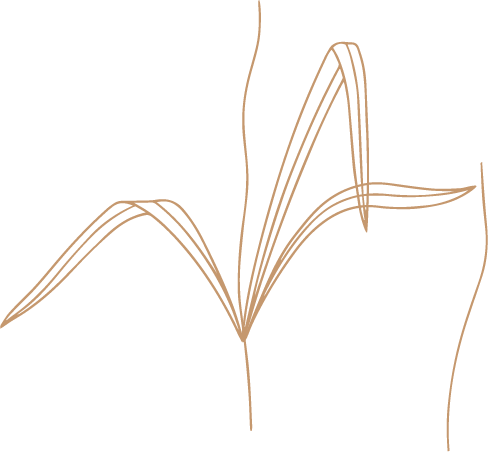
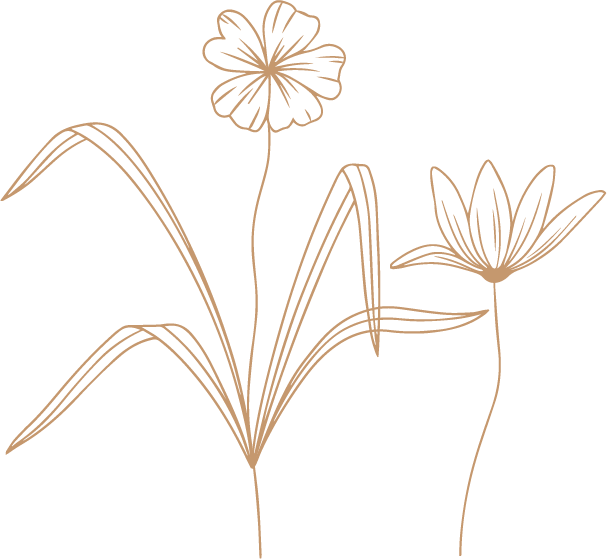
quote

diff --git a/index.html b/index.html
@@ -106,21 +106,7 @@
                 <img class="abs watercolor2 wtrclr-on-sctn-3" src="./src/style/elements/watercolor2.png" alt="">
                 <img class="abs watercolor2 wtrclr-on-sctn-3_1" src="./src/style/elements/Recurso 3brush.png" alt="">
                 <img class="abs watercolor2 wtrclr-on-sctn-3_2" src="./src/style/elements/Recurso 4brush.png" alt="">
-                
-                <!-- <img class="abs bottom-sctn-3" src="./src/style/elements/16watercolor.png" alt=""> -->
-                <!-- <div class="flwr_sctn-3-1"> -->
-                    <!-- <svg class="f-s3 f-s3_3" xmlns="http://www.w3.org/2000/svg" viewBox="0 0 29.74 20.36"><defs><style>.a{fill:#c5986e;}</style></defs><title></title><path class="a" d="M0,20.36a4,4,0,0,1,.12-.46c.89-2.19,1.75-4.39,2.7-6.56A29.91,29.91,0,0,1,6.45,6.83a27.92,27.92,0,0,1,3.53-4A11.49,11.49,0,0,1,15.66.12a10.35,10.35,0,0,1,3.24,0c1.76.23,3.52.51,5.28.66a25.72,25.72,0,0,0,3.4,0A12.84,12.84,0,0,0,29.06.49c.21,0,.42,0,.63-.08l0,.12a6.14,6.14,0,0,1-.45.43,10.76,10.76,0,0,1-3.63,1.77,21.48,21.48,0,0,1-2.49.49,18.37,18.37,0,0,1-2.45.19,26.75,26.75,0,0,1-3.35-.17A9.23,9.23,0,0,0,10.64,5,17.52,17.52,0,0,0,6.64,9,53.85,53.85,0,0,0,1.32,17.9c-.25.52-.45,1.08-.67,1.61A1.51,1.51,0,0,1,0,20.36ZM28.81.94a22.41,22.41,0,0,1-4.42.79,29.61,29.61,0,0,1-5.57,0,19,19,0,0,0-3-.05,9.9,9.9,0,0,0-3.57,1,11.94,11.94,0,0,0-4,3.22A38.33,38.33,0,0,0,2.8,14.22a1.73,1.73,0,0,0-.11.32A1.87,1.87,0,0,0,3,14.08,55.85,55.85,0,0,1,6.65,8.59a16.41,16.41,0,0,1,4.52-4.27,9.11,9.11,0,0,1,6-1.34,26,26,0,0,0,2.92.18c1.05,0,2.11-.11,3.16-.21a12.62,12.62,0,0,0,3.81-1A6.65,6.65,0,0,0,28.81.94Zm-1.95.26V1.15c-1.09,0-2.18,0-3.25-.15C22.07.85,20.54.62,19,.4a10.44,10.44,0,0,0-3.57,0A11.37,11.37,0,0,0,10.21,3a25.15,25.15,0,0,0-3,3.29A21,21,0,0,0,5,9.5c-.07.13-.13.26-.19.4l.08,0,.33-.49A26.51,26.51,0,0,1,8.71,5a13,13,0,0,1,2.93-2.29,11.23,11.23,0,0,1,6.58-1.26A33.57,33.57,0,0,0,23,1.62c.61,0,1.22-.09,1.83-.16Z"/></svg> -->
-                    <!-- <svg class="f-s3 f-s3_4" xmlns="http://www.w3.org/2000/svg" viewBox="0 0 31.52 42.78"><defs><style>.a{fill:#c5986e;}</style></defs><title></title><path class="a" d="M10.81,2.16A14.89,14.89,0,0,0,7.06,4.61c-.93.83-1.84,1.68-2.76,2.51a19.25,19.25,0,0,1-4,2.67.44.44,0,0,1-.34,0c.11-.15.21-.3.32-.44.94-1.22,1.86-2.47,2.84-3.67S5.24,3.23,6.33,2.05a6,6,0,0,1,3-1.66A13.77,13.77,0,0,1,11.17,0a4.46,4.46,0,0,1,3.89,1.24,25.88,25.88,0,0,1,3.62,4.66A96.67,96.67,0,0,1,29.11,29,67.87,67.87,0,0,1,30.78,36a45.71,45.71,0,0,1,.73,5.71,3.76,3.76,0,0,1-.08,1.1,1.09,1.09,0,0,1-.09-.23,45.31,45.31,0,0,0-1.56-8.33,74,74,0,0,0-6.69-16.81A63.22,63.22,0,0,0,15.92,6.74a24.79,24.79,0,0,0-4.61-4.25C11.16,2.38,11,2.28,10.81,2.16ZM8.93.74V.85l.2.11a13.64,13.64,0,0,1,2.8,1.67A27.32,27.32,0,0,1,17.29,8a73.63,73.63,0,0,1,12,23.41c.29.94.55,1.88.83,2.83a.63.63,0,0,0,0-.33c-.3-1.21-.58-2.42-.93-3.61a81.34,81.34,0,0,0-4.82-12.54,65.74,65.74,0,0,0-6.55-11,28.7,28.7,0,0,0-4.15-4.59A10.45,10.45,0,0,0,11.17.48a1,1,0,0,0-.49-.11C10.09.48,9.51.61,8.93.74Zm14.67,15,.07,0-.17-.41a84.19,84.19,0,0,0-4.94-9,24.36,24.36,0,0,0-3.72-4.81A4,4,0,0,0,12.28.25a7.41,7.41,0,0,0-.89,0c.56.36,1,.63,1.45.94a22.33,22.33,0,0,1,4.05,4,57.5,57.5,0,0,1,5.94,9.09ZM.91,9.14a1.7,1.7,0,0,0,.33-.2c.63-.54,1.29-1.06,1.87-1.65S4.39,5.86,5,5.13a17.46,17.46,0,0,1,4.16-3.6.83.83,0,0,0,.19-.15,1.38,1.38,0,0,0-1.65-.09A7.3,7.3,0,0,0,6.2,2.53,76.29,76.29,0,0,0,.92,9S.92,9.08.91,9.14ZM9.73,1.5l-.31.16A11.8,11.8,0,0,0,6.71,3.71C5.46,5,4.26,6.37,3,7.71c0,0,0,0,0,.11s.22-.14.31-.22C4.14,6.9,5,6.22,5.72,5.5a16.71,16.71,0,0,1,4.89-3.45Z"/></svg> -->
-                    <!-- <svg class="f-s3 f-s3_5" xmlns="http://www.w3.org/2000/svg" viewBox="0 0 30.96 18.13"><defs><style>.a{fill:#c5986e;}</style></defs><title></title><path class="a" d="M30.74,18.13c-.19-.39-.4-.76-.58-1.15A46.49,46.49,0,0,0,22.45,5.19a24.16,24.16,0,0,0-3.17-3,1,1,0,0,0-.86-.2,9,9,0,0,0-4,2.07,63.34,63.34,0,0,0-5.12,5,35,35,0,0,1-6.18,5.42c-.57.37-1.16.7-1.73,1.07-.34.22-.67.46-1,.69l-.34.2A1.75,1.75,0,0,1,.08,16a11.85,11.85,0,0,1,1.07-1.55c.68-.78,1.43-1.51,2.17-2.24C4.84,10.7,6.14,9,7.52,7.43a64.47,64.47,0,0,1,6.1-6.27,7.79,7.79,0,0,1,.87-.64,1.78,1.78,0,0,1,1-.31q1.77,0,3.54-.06a7,7,0,0,0,.8-.09,3.53,3.53,0,0,1,3.51,1.25,19.62,19.62,0,0,1,2.39,3.63,85.36,85.36,0,0,1,4,9c.44,1.21.77,2.46,1.14,3.7C31,17.87,31,17.93,30.74,18.13Zm-.49-1.57.08,0a1.16,1.16,0,0,0,0-.18c-.28-.8-.53-1.61-.86-2.4A39,39,0,0,0,23.5,4.17,24.58,24.58,0,0,0,19.85.61a1.06,1.06,0,0,0-.79-.22c-.5,0-1,0-1.51,0L17,.44c.64.38,1.25.71,1.82,1.1A20.26,20.26,0,0,1,22.08,4.4a45.82,45.82,0,0,1,7.74,11.27C30,16,30.11,16.26,30.25,16.56ZM17.21.88,16.88,1l-.3.14a18.51,18.51,0,0,0-4.73,3.41,61.53,61.53,0,0,0-4.38,4.9,25.6,25.6,0,0,1-4.92,4.89c-.16.11-.31.24-.47.36a1,1,0,0,0,.48-.18A33.91,33.91,0,0,0,8.44,9.57c1.6-1.66,3.23-3.28,4.88-4.89a10.56,10.56,0,0,1,5.26-3ZM16.92.8a2.38,2.38,0,0,0-2.71.2l-.44.36A64.84,64.84,0,0,0,7.46,7.89a61.65,61.65,0,0,1-4.51,5c-.6.57-1.16,1.17-1.72,1.77-.19.2-.34.43-.51.64l.08.08c.25-.2.5-.41.76-.6A29.62,29.62,0,0,0,7.4,9.2c1.3-1.59,2.69-3.11,4.09-4.6a16.41,16.41,0,0,1,4.57-3.4ZM27.69,9.63a2.6,2.6,0,0,0-.1-.25C27,8.1,26.41,6.8,25.78,5.54A18.06,18.06,0,0,0,23.1,1.43a4.37,4.37,0,0,0-.92-.8A3.07,3.07,0,0,0,19.87.35C23.22,2.91,25.52,6.21,27.69,9.63Z"/></svg> -->
-                    <!-- <svg class="f-s3 f-s3_6" xmlns="http://www.w3.org/2000/svg" viewBox="0 0 5.19 71.73"><defs><style>.a{fill:#c5986e;}</style></defs><title></title><path class="a" d="M4.34,0a1.11,1.11,0,0,0-.07.29c.07,1.72.11,3.43.22,5.14.1,1.41.26,2.82.41,4.23A16.15,16.15,0,0,1,4,16.75c-.91,2.58-1.82,5.16-2.5,7.82A50.56,50.56,0,0,0,.14,32.22a38.3,38.3,0,0,0,.09,7.34C.39,41.3.61,43,.8,44.77a23.14,23.14,0,0,1-.18,5.64,28.5,28.5,0,0,0-.24,4.8c0,1.52.12,3,.15,4.58,0,1.71,0,3.43.07,5.14v.38c.08,2,.15,4,.23,6a3.15,3.15,0,0,0,.05.43H1c0-.13,0-.26,0-.39-.06-2-.14-4.06-.18-6.09,0-1.85,0-3.71-.08-5.57,0-1.54-.09-3.08-.15-4.62A25.52,25.52,0,0,1,.8,50.87,26.92,26.92,0,0,0,1,44.53C.87,43.1.68,41.68.54,40.26S.26,37.5.24,36.12A45.58,45.58,0,0,1,2.83,20.77c.56-1.67,1.13-3.34,1.68-5A16.44,16.44,0,0,0,5.08,9c-.24-2.46-.4-4.93-.58-7.39,0-.41,0-.82,0-1.23A2.53,2.53,0,0,0,4.44,0Z"/></svg> -->
-                    <!-- <svg class="f-s3 f-s3_7" xmlns="http://www.w3.org/2000/svg" viewBox="0 0 27.08 15.43"><defs><style>.a{fill:#c5986e;}</style></defs><title></title><path class="a" d="M26.12,3.85a4.92,4.92,0,0,0-1.82.62,17.32,17.32,0,0,0-5,4.08.39.39,0,0,1-.22.15l.11-.38a42.56,42.56,0,0,0,1.35-5.48,14.22,14.22,0,0,0,.14-1.45.69.69,0,0,0-.24-.7A1.41,1.41,0,0,0,19.29,1a6.51,6.51,0,0,0-1.42,1.45,15.17,15.17,0,0,0-2.44,5.17l-.1.31A15.35,15.35,0,0,0,12.76.39,1.77,1.77,0,0,0,12.38,0a.77.77,0,0,0-.63.47,8.78,8.78,0,0,0-1.1,2.6c-.3,1.09-.52,2.2-.78,3.3,0,.12-.06.24-.11.44-.19-.49-.35-.92-.53-1.34s-.41-1-.64-1.47a7.62,7.62,0,0,0-2.3-2.77A1.07,1.07,0,0,0,5.3.9a.87.87,0,0,0-.25.68,12,12,0,0,0,.31,2.81,9.48,9.48,0,0,1,.22,1.4A8.69,8.69,0,0,0,7.05,10.2c.19.31.39.61.64,1L7.28,11a4.64,4.64,0,0,0-3.53-.14A11.45,11.45,0,0,0,.32,12.84c-.32.25-.34.32-.31.78a1.39,1.39,0,0,0,.46.09,8.5,8.5,0,0,0,1.34-.21,12.48,12.48,0,0,1,6.75.07c.73.21,1.46.39,2.17.63a2,2,0,0,1,.88.52,2,2,0,0,0,3,.1,2,2,0,0,0,.21-.19,3.66,3.66,0,0,1,1.32-.8,13.23,13.23,0,0,0,1.7-.81,16.27,16.27,0,0,0,3.76-2.83C23.23,8.5,24.83,6.76,26.44,5c.24-.26.43-.56.64-.83A.82.82,0,0,0,26.12,3.85ZM15.62,7.74a14.31,14.31,0,0,1,2.66-5.47,8.64,8.64,0,0,1,1.19-1.15.94.94,0,0,1,1-.22,2,2,0,0,1,.05.48,11.8,11.8,0,0,1-.16,1.69c-.36,1.56-.76,3.11-1.16,4.66a9.16,9.16,0,0,1-1.38,2.93,8,8,0,0,1-2.93,2.74,3,3,0,0,1-.41.17l.28-.27A16.79,16.79,0,0,0,17.88,8,22,22,0,0,0,19,4.17c-.29.88-.59,1.75-.89,2.63a19.38,19.38,0,0,1-2.94,5.65,1.48,1.48,0,0,1-.37.38A25.71,25.71,0,0,0,17,7.23a31.13,31.13,0,0,1-2.7,6,2,2,0,0,1,.13-.65c.24-.75.47-1.5.66-2.26S15.4,8.61,15.62,7.74Zm-9.25.68a6.84,6.84,0,0,1-.51-1.95C5.8,5.83,5.69,5.2,5.6,4.56c-.12-.89-.25-1.77-.36-2.66A1,1,0,0,1,5.49,1a8.6,8.6,0,0,1,.78.49A7.81,7.81,0,0,1,8.52,4.38c.25.57.52,1.14.73,1.73S9.62,7.34,9.77,8s.17,1.21.32,1.8a6.71,6.71,0,0,0,2,3.57s.07.1.11.15l0,.12h0a8.24,8.24,0,0,1-2.9-3.7C8.81,9,8.47,8.08,8.1,7.17a.81.81,0,0,0-.17-.28c.75,2.23,1.42,4.51,3.21,6.22l-.08.08a7,7,0,0,1-.62-.45,8.19,8.19,0,0,1-2-2.62A34.61,34.61,0,0,1,6.68,5.53c0-.14-.09-.27-.13-.4H6.47c.2.69.4,1.37.62,2.06a20.46,20.46,0,0,0,1.33,3.26A8.52,8.52,0,0,0,10,12.58a3.84,3.84,0,0,0,1.1.79,6.67,6.67,0,0,1-2.58-1.68A10.86,10.86,0,0,1,6.37,8.42Zm-6.09,5-.06-.13A1.49,1.49,0,0,1,.45,13,12.14,12.14,0,0,1,4,11a4.26,4.26,0,0,1,3.25.21c.34.16.65.4,1,.63a.75.75,0,0,1-.18.07l-.36-.1A5.14,5.14,0,0,0,5,11.69c-.6.16-1.19.38-1.78.6-.79.31-1.56.66-2.34,1A4.52,4.52,0,0,1,.28,13.39ZM5,12.85q-.91,0-1.83.15c-.48.06-1,.18-1.42.27l0-.1c.81-.34,1.61-.69,2.43-1a5.39,5.39,0,0,1,1.37-.34A5.8,5.8,0,0,1,9,12.62a10.62,10.62,0,0,0,2.47,1.14c.09,0,.15.12.23.17l-.28.09a7.74,7.74,0,0,1-1.79-.67,13.86,13.86,0,0,0-3.6-1.2,2.68,2.68,0,0,0-.49,0,19.35,19.35,0,0,1,3.78,1.28c.28.14.56.27.85.39l-.34-.09A14.78,14.78,0,0,0,5,12.85Zm8.34.78a.79.79,0,0,0,.13-.31c.12-.72.26-1.45.33-2.18a15.11,15.11,0,0,0,0-2A16.73,16.73,0,0,0,13.65,7c-.14-.93-.34-1.85-.52-2.77a4.56,4.56,0,0,0-.18-.6c.05.42.09.84.17,1.25a26.72,26.72,0,0,1,.55,5,15.6,15.6,0,0,1-.28,3.27,1.07,1.07,0,0,1-.19.52h0a25.27,25.27,0,0,0-.47-7.41c.14,2.47.29,4.94.43,7.41a.9.9,0,0,1-.3-.08,2.83,2.83,0,0,1-.2-.28A9.79,9.79,0,0,1,11.41,10c-.24-1.32-.36-2.67-.53-4,0,.59,0,1.25,0,1.9a13.06,13.06,0,0,0,1.13,4.68,4.83,4.83,0,0,0,.41.74,4.78,4.78,0,0,1-.67-.6,6.5,6.5,0,0,1-1.39-2.65A7.69,7.69,0,0,1,10,7,21,21,0,0,1,11.32,1.8,9.89,9.89,0,0,1,11.88.67a4.93,4.93,0,0,1,.4-.52,5.16,5.16,0,0,1,.45.6c.45.87.91,1.75,1.32,2.65a12.57,12.57,0,0,1,1,4.1,14,14,0,0,1-.43,3.76A8.71,8.71,0,0,1,14,13.07.86.86,0,0,1,13.35,13.63ZM26.27,4.91,22,9.42a18.48,18.48,0,0,1-2.93,2.52,11.07,11.07,0,0,1-3.55,1.82c-.22.05-.44.06-.67.1h0l.19,0-.05,0,.06,0a6.93,6.93,0,0,0,1-.39,14.06,14.06,0,0,0,4.24-2.95c1-1,1.95-2.18,2.92-3.27A.21.21,0,0,0,23.32,7c-.25.28-.5.55-.74.84a26,26,0,0,1-3.66,3.6,15.69,15.69,0,0,1-3,1.84A26.53,26.53,0,0,0,21.4,8.54a56,56,0,0,1-5.76,4.86l-.7.28a.84.84,0,0,1,.18-.15,8.53,8.53,0,0,0,2.94-2.88,17.53,17.53,0,0,1,6-5.8,5.47,5.47,0,0,1,1.73-.72,1.18,1.18,0,0,1,1,.08C26.63,4.45,26.47,4.7,26.27,4.91Z"/></svg> -->
-                    
-                    <!-- </div> -->
-                <div class="png_sctn-3-1">
-                    <svg class="f-s3 f-s3_1" xmlns="http://www.w3.org/2000/svg" viewBox="0 0 17.95 16.57"><defs><style>.a{fill:#c5986e;}</style></defs><title></title><path class="a" d="M15.84,7.67l1.71.21,0-.15A3.5,3.5,0,0,0,15.84,7.67Z"/><path class="a" d="M16.48,5.56a2.28,2.28,0,0,0-1.64.16,6.35,6.35,0,0,1-2.31.68A5.75,5.75,0,0,0,13,6c.48-.56,1-1.1,1.4-1.69A2,2,0,0,0,14.7,2.8a.9.9,0,0,0-.94-.88,1.21,1.21,0,0,1-.57-.15,2.67,2.67,0,0,0-1.38-.48A2.33,2.33,0,0,0,10.06.07,1.41,1.41,0,0,0,8.38.71,4.66,4.66,0,0,0,7.55,3a10.29,10.29,0,0,0,.19,2.54c0,.16,0,.32,0,.47a1.24,1.24,0,0,1-.26-.51A9.31,9.31,0,0,0,5.61,2.35,3.32,3.32,0,0,0,3.66,1.19c-1-.18-2,.67-1.82,1.55a3.31,3.31,0,0,0,.6,1.86L2,4.62a2.6,2.6,0,0,0-.56.07A1.87,1.87,0,0,0,0,6.27,1.72,1.72,0,0,0,1.05,8c.1.06.21.11.31.18A4.56,4.56,0,0,0,4.05,9c.51,0,1,.06,1.53.09a2.1,2.1,0,0,1-.52.21A12,12,0,0,0,2.42,10.4a3,3,0,0,0-1.18,1.18,1.47,1.47,0,0,0-.13,1.14c.09.33.2.65.3,1a1.38,1.38,0,0,0,1.69,1l.22-.05c.22.3.41.58.63.84a1.76,1.76,0,0,0,1.35.73,1.64,1.64,0,0,1,.63.19A1,1,0,0,0,7.41,16c.22-.31.38-.65.61-1a4.17,4.17,0,0,0,.15.46,5.56,5.56,0,0,0,.49.9.59.59,0,0,0,.77.22,4,4,0,0,1,1.18-.44c.17,0,.32-.24.46-.39a4,4,0,0,0,.3-.43,4.57,4.57,0,0,0,.36.29,1.12,1.12,0,0,0,1.21.13,6.25,6.25,0,0,1,1.26-.53,1.28,1.28,0,0,0,.87-1.36,2.82,2.82,0,0,0-.45-1.18c-.13-.22-.27-.42-.4-.63a1.41,1.41,0,0,1,.49.15,10.24,10.24,0,0,0,1.06.37,1.1,1.1,0,0,0,1-.19,1.65,1.65,0,0,0,.53-2,1,1,0,0,1-.12-.43,3.86,3.86,0,0,1,.44-1.55A1.72,1.72,0,0,0,16.48,5.56ZM8.3,1.29C8.76.43,9.15.17,9.9.3A7.6,7.6,0,0,0,8.75,4.12,24.25,24.25,0,0,1,10,.32l.38.11a1.7,1.7,0,0,1,1.16.9l0,0A6.66,6.66,0,0,0,10,4.11c.59-.94,1.16-1.83,1.72-2.71l1.46.67a1.29,1.29,0,0,0,.39.08.82.82,0,0,1,.91,1,2.64,2.64,0,0,1-.31,1,5.89,5.89,0,0,1-2.54,2.45c-.3.14-.58.29-.88.42a9.5,9.5,0,0,0-.89.48A23.1,23.1,0,0,0,12.64,4.4a1.18,1.18,0,0,0-.27.22c-.95,1-1.9,1.91-2.86,2.86-.12.12-.22.29-.51.27l1.26-2-.08,0L9.11,7,9,6.94c.35-.75.7-1.5,1-2.25A12.91,12.91,0,0,0,8.26,8.37c0-.3-.1-.57-.13-.84-.11-1-.21-2-.32-2.95A5.49,5.49,0,0,1,8.3,1.29ZM4.76,8.81A12.22,12.22,0,0,1,2.94,8.6a6,6,0,0,1-1.26-.52C1.45,8,1.24,7.8,1,7.7A1.48,1.48,0,0,1,.72,5.35a2.16,2.16,0,0,1,1.72-.46l.41,0c0-.14,0-.19,0-.21A3.13,3.13,0,0,1,2.1,2.9a1.15,1.15,0,0,1,.07-.63,2.43,2.43,0,0,0,1.1.7l-1-.86a1.34,1.34,0,0,1,.22-.31l2.36,2a4.78,4.78,0,0,0-2.34-2,1,1,0,0,1,.62-.31,2.84,2.84,0,0,1,1,.13,2.89,2.89,0,0,1,1.35,1A9.39,9.39,0,0,1,7.29,5.7,22.21,22.21,0,0,1,8,8.31,18.49,18.49,0,0,0,4.56,4.78,30.87,30.87,0,0,1,7,7.67L4.43,5.93,4.37,6,7.05,8.07,7,8.18a34.16,34.16,0,0,0-4.73-1.7c1,.43,1.91.82,2.87,1.22s1.78.72,2.68,1.17L7,8.9C6.26,8.88,5.51,8.86,4.76,8.81Zm3.13,5.52a6.17,6.17,0,0,1-.68,1.48c-.33.55-.6.58-1.19.32l-.09,0a4.09,4.09,0,0,0,.74-1.24,4.31,4.31,0,0,0,.51-1.54L5.76,16A1.72,1.72,0,0,0,5.38,16a1.73,1.73,0,0,1-1.26-.69c-.2-.26-.39-.53-.6-.83l2.8-3.39a12.91,12.91,0,0,0-2.18,2.19,11,11,0,0,0-.69.95s0,.08,0,.12l-.32.09a1.17,1.17,0,0,1-1.51-1,1.58,1.58,0,0,0-.11-.37l.09,0,2.72-2.26a8.33,8.33,0,0,0-2.6,1.88,2,2,0,0,0-.21.35,1.17,1.17,0,0,0-.06-.2,1.17,1.17,0,0,1,.12-1.26,3.42,3.42,0,0,1,.94-.92A10.06,10.06,0,0,1,7.7,9.18a12.09,12.09,0,0,0-3.21,2.76c.38-.29.73-.61,1.09-.9s.78-.62,1.18-.91A3.54,3.54,0,0,1,8,9.46L5.68,12.91,5.8,13,8.24,9.58A14.6,14.6,0,0,1,7.89,14.33Zm6.76-1.2c.46.95.2,1.55-.8,1.9l-.29.12a1.9,1.9,0,0,0-.75-1.49l.73,1.5a5.85,5.85,0,0,0-.56.28,1.06,1.06,0,0,1-1.33-.28c-.1-.13-.19-.27-.31-.44-.16.31-.27.55-.42.78a.87.87,0,0,1-.65.42,2.39,2.39,0,0,0-.71.28A.55.55,0,0,1,8.73,16a2.64,2.64,0,0,1-.42-2A26.26,26.26,0,0,0,8.5,9.36a.29.29,0,0,1,0-.09,31.75,31.75,0,0,1,2.38,4.18,17.67,17.67,0,0,0-1.2-2.83l.08,0L11,12.39A13.57,13.57,0,0,0,9,9.14c1.31.47,2.05,1.65,3,2.51a10.84,10.84,0,0,0-2-2.24,11.82,11.82,0,0,1,3.27,1.95A5.48,5.48,0,0,1,14.65,13.13ZM16.9,9.86a.37.37,0,0,0,0,.23,6.9,6.9,0,0,0-2.59-.5l2.66.7v0l.06.12a1.36,1.36,0,0,1-.5,1.75.9.9,0,0,1-.57.14,4.21,4.21,0,0,1-1.11-.34c-.46-.23-.87-.54-1.31-.8-.86-.52-1.71-1.07-2.59-1.55A6.37,6.37,0,0,0,9.44,9l-.1-.08a19.1,19.1,0,0,1,5.34,0,15.14,15.14,0,0,0-5.11-.38A14.49,14.49,0,0,1,13.86,8a7.14,7.14,0,0,0-2.48,0C10.6,8,9.83,8.21,9,8.36c.2-.15.4-.3.61-.43a10.56,10.56,0,0,1,3.45-1.37A13.69,13.69,0,0,0,15,5.91a2.24,2.24,0,0,1,1.55-.08,1.53,1.53,0,0,1,1.16,1.35,10.46,10.46,0,0,0-3.53,0h1.89c.54,0,1.09.1,1.64.05a1.59,1.59,0,0,1-.33.95A4.53,4.53,0,0,0,16.9,9.86Z"/></svg>
-                    <!-- <svg class="f-s3 f-s3_2" xmlns="http://www.w3.org/2000/svg" viewBox="0 0 16.21 38.17"><defs><style>.a{fill:#c5986e;}</style></defs><title></title><path class="a" d="M16.17,12.84c-.06-2.36-.19-4.73-.28-7.09a16.15,16.15,0,0,0-.43-3.32c-.16-.59-.35-1.18-.56-1.75A.9.9,0,0,0,14,.07c-.22,0-.44,0-.66,0a2,2,0,0,0-2.2.93c-.19.34-.4.68-.57,1C9.16,4.92,7.87,7.9,6.75,11A155.2,155.2,0,0,0,1.59,28.27,61.47,61.47,0,0,0,0,37.7c0,.22,0,.4.27.47.86-2.83,1.66-5.65,2.57-8.44s1.93-5.6,3-8.37,2.17-5.48,3.3-8.2A87.94,87.94,0,0,1,13,5a2.4,2.4,0,0,1,.15.4c.13.81.31,1.61.38,2.42.17,1.79.29,3.59.43,5.38.07.85.14,1.7.22,2.54,0,.43.09.85.15,1.27.16,1.07.34,2.14.48,3.22a15.84,15.84,0,0,0,.91,3.6,3.84,3.84,0,0,0,.18.35l.1,0c0-.6.09-1.21.11-1.81.05-1.34.1-2.67.11-4C16.22,16.53,16.22,14.69,16.17,12.84ZM.46,36.29H.37c.11-.81.21-1.62.34-2.42A126.59,126.59,0,0,1,4.35,19,114.15,114.15,0,0,1,10.67,2.31,5,5,0,0,1,11.45,1a2.75,2.75,0,0,1,.31.44c.19.38.35.77.54,1.15a.74.74,0,0,1,0,.72A118.06,118.06,0,0,0,6.38,16.12a119.73,119.73,0,0,0-5.17,17C1,34.15.71,35.22.46,36.29ZM1.7,32.36c-.09-.93,2.77-10.54,4.42-14.83A123.2,123.2,0,0,1,12.46,3.41l.12,0c.11.39.22.78.33,1.15A186.1,186.1,0,0,0,1.7,32.36ZM15.56,22.7a14.44,14.44,0,0,1-.34-1.41c-.25-1.6-.51-3.21-.69-4.82-.22-1.95-.36-3.92-.54-5.88C13.88,9.4,13.81,8.2,13.65,7a19.16,19.16,0,0,0-1.34-5A12.72,12.72,0,0,0,11.64.73a1.33,1.33,0,0,1,1.6-.4A9.33,9.33,0,0,1,14,2.55c.2.93.41,1.87.57,2.81a18,18,0,0,1,.19,1.93c.14,3.2.25,6.41.42,9.61.08,1.6.25,3.2.38,4.8,0,.33.1.65.15,1Zm.32-1.37a.71.71,0,0,1-.06.19,4.25,4.25,0,0,1-.14-.46c-.07-.63-.15-1.25-.18-1.88-.16-3.63-.29-7.26-.47-10.88a26.86,26.86,0,0,0-1.12-6.78c-.13-.4-.29-.79-.44-1.19.8-.11,1.1,0,1.32.72a15.63,15.63,0,0,1,.63,2.51c.36,2.44.27,4.91.42,7.37q0,.78.06,1.56c0,1.48.08,3,.08,4.44S15.91,19.86,15.88,21.33Z"/></svg> -->
-                    <img class="f-s3_3" src="src/style/elements/Recurso 2flwr-7.png" alt="">
-                </div>
+                <img class="f-s3_3" src="src/style/elements/Recurso 2flwr-7.png" alt="">
 
                 <div class="content_sect3">
                     <svg class="dress_icon" xmlns="http://www.w3.org/2000/svg" viewBox="0 0 418.72 487.4"><path d="M418.72,486.39c-12.06.38-24-.69-35-6-14.37-7-20.88-19.89-24.9-34.46-4.95-18-6.2-36.41-6.66-54.9-.6-23.82-.74-47.65-1.06-71.48a41,41,0,0,0-.87-9.91c-.46,17.31-.64,34.63-1.44,51.93-.95,20.6-1.86,41.24-3.87,61.76a87.49,87.49,0,0,1-12.43,37.62,48.25,48.25,0,0,1-28.66,21.9c-22.63,6.49-45.74,4.22-69.93,4.07,15.93-9.77,20.84-25,25.14-40.4,4.73-16.92,6.63-34.33,6.81-51.86q1-92.24,1.55-184.48c.12-22.43,7.58-42,21.49-59.31a6.54,6.54,0,0,1,4.51-2.1q33.26-.19,66.5,0a7.76,7.76,0,0,1,5.3,2.66c13.67,17.24,20.9,36.69,21.05,58.95q.6,95.24,1.94,190.48c.34,22.41,3.92,44.43,13.33,65.08C405.34,474.23,410.27,481.68,418.72,486.39Z"/><path d="M293.88,141.23c-5.9-22.66-12.68-44.64-17-67.1-2-10.25.53-21.49,1.81-32.18,1.65-13.68,4.12-27.26,6.32-41.44h14.82c1.16,25.58,4.79,50.4,25.2,70.53l-5.15,3c6-.59,11.56-4.77,16.86-12,8.88-12.11,13.32-25.95,15.27-40.64.91-6.9,1.29-13.86,2-21.34,4.44,0,8.74-.17,13,.12a3.91,3.91,0,0,1,2.58,2.67c2.66,18.76,4.91,37.58,7.75,56.32,1.82,12-1.93,23-4.82,34.27-3.85,15-7.6,29.95-11.57,44.87-.31,1.16-2,2.8-3,2.81C336.48,141.27,315,141.23,293.88,141.23Z"/><path d="M146.55,0c3.54,10.07,12.55,13.94,21.06,18.51,11,5.89,21.86,12,32.81,18,1.29.71,2.71,1.2,4.59,2q18.75,104.77,37.78,211.15L214.06,256,185.65,135.88c-.66,1.89-1.25,2.88-1.32,3.9-1.12,18.61-2.86,37.27,2.35,55.59.75,2.63.26,3.92-2.26,5-14.22,6-28.4,12.19-42.93,18.45-6.59-14.67-13.1-29.19-20.15-44.89-6.94,15.44-13.43,29.89-20.16,44.89L55.05,198.93c6.34-20.75,4.33-41.62,1.86-62.68C47.52,176,38.12,215.79,28.63,256L0,249.79c.81-5,1.52-9.91,2.38-14.74Q13,175.89,23.67,116.75c4.53-25.19,9-50.4,13.53-75.6a4.78,4.78,0,0,1,1.73-3.1c10.76-5.95,21.64-11.67,32.41-17.6C80.8,15.24,91.68,11.77,96.07.17c2.08,26.55,3.42,52.59,6.36,78.44s7.62,51.53,18.88,77.05c11.26-25.5,16-51.17,18.83-77.16S144.44,26.51,146.55,0Zm12.74,78.72h18.25V68.39Z"/><path d="M190.75,205.76c2.81,15.18,6.12,29.78,8.09,44.56a224.08,224.08,0,0,1-.69,66.22c-3.93,24-11.08,46.63-27.74,65.17a61.78,61.78,0,0,1-29.57,18.69c-1.24.35-2.55.49-4.4.83-7.86-43.73-10.74-87.68-15.06-131.55-4.55,43.75-7.21,87.72-15.18,131.55-11.53-1.89-20.74-7.2-28.85-14.49-13.94-12.53-22-28.64-27.35-46.25-8-26.18-9.24-52.95-7.13-80.08a286,286,0,0,1,9.81-54.31l52.07,22.36,16.57-36.87,16.58,36.86Z"/><path d="M142.06,25.7c-1.38,3.68-1.89,8.86-3.94,9.56-2.74.94-7-1-10-2.76-5.57-3.3-8-3.6-13.56.21-7.9,5.42-12.1,4-12.88-4.91-.3-3.47,1.72-7.14,2.68-10.72,3.65,1.16,7.87,1.52,10.82,3.65,4.9,3.54,7.73,4,12.25-.28.25-.23.47-.55.76-.64,3.25-1,6.95-3.29,9.64-2.44C139.87,18,140.65,22.69,142.06,25.7Z"/></svg>

diff --git a/src/style/sass/main_components/section3.scss b/src/style/sass/main_components/section3.scss
@@ -109,30 +109,15 @@
         transform: rotate(45deg);
     }
 
-    .png_sctn-3-1{
+    .f-s3_3{
         position: absolute;
-        // display: flex;
-        // box-sizing: none;
-        // width: min-content;
-        // position: absolute;
-        // display: block;
-        // left: -50%;
-        // z-index: 1000;
-
-
-        .f-s3_1{
-            position: absolute;
-            width: 13%;
-            left: 18%;
-            top: -15%;
-        }
-        .f-s3_3{
-            width: 45%;
-            display:inline-block;
-            width: 40%;
-            // margin: auto;
-        }
+        // display:inline-block;
+        width: 35%;
+        bottom: -2rem;
+        right: 0;
+        // margin: auto;
     }
+
 }
 
 

diff --git a/src/style/css/main.css b/src/style/css/main.css
@@ -512,19 +512,11 @@ li {
   left: -7.5rem;
   transform: rotate(45deg);
 }
-.sctn3 .png_sctn-3-1 {
+.sctn3 .f-s3_3 {
   position: absolute;
-}
-.sctn3 .png_sctn-3-1 .f-s3_1 {
-  position: absolute;
-  width: 13%;
-  left: 18%;
-  top: -15%;
-}
-.sctn3 .png_sctn-3-1 .f-s3_3 {
-  width: 45%;
-  display: inline-block;
-  width: 40%;
+  width: 35%;
+  bottom: -2rem;
+  right: 0;
 }
 
 .sctn4 {
